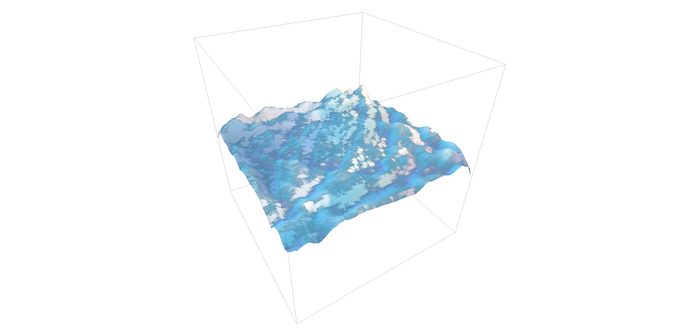
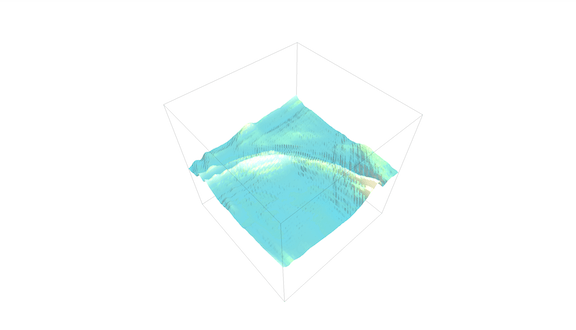
update

Changed region(s): [[0.3125, 0.2744, 0.6875, 0.8232]]

diff --git a/src/pages/pool/planeShader.js b/src/pages/pool/planeShader.js
@@ -106,44 +106,43 @@ const FS = {
   }
   
       void main() {
-        vec4 color =vec4(.32,.53,.68,1.);
+        vec4 color =vec4(.3,.76,.68,1.);
          vec3 normal = normalize(cross(dFdx(v_pos), dFdy(v_pos))*.5);
  normal.z = -normal.z;
  vec3 posBios = cameraPosition-v_pos;
- float fresnel = clamp(.9-clamp(dot(normalize(posBios),normal),0.,1.),0.,1.);
+ float fresnel = clamp(.85-clamp(dot(normalize(posBios),normal),0.,1.),0.,1.);
  fresnel*=fresnel*fresnel;
  vec4 sky = texture2D(skyMap, vUv);
-        if(v_pos.y>-0.5){
+        if(v_pos.y>-0.1){
           float a = smoothstep(-.1,2.,v_pos.y);
-          color.x+=a*.2;
-          color.y+=a*.2;
+          color.x+=a*.3;
+          color.y+=a*.24;
           color.z+=a*.2;
-        }else if(v_pos.y<0.){
+        }else if(v_pos.y<0.3){
           float a = smoothstep(.15,-2.,v_pos.y);
           color.x-=a*.1;
-          color.y-=a*.1;
-          color.z+=a*.08;
+          color.y+=a*.02;
+          color.z+=a*.18;
         }
 
         if(normal.x<.4 && normal.z<.4 && v_pos.y>-.1){
-          color+= .5*smoothstep(.1,1.,v_pos.y)*vec4(.3,.3,-.18,0.);
+          color+= .5*smoothstep(-.1,1.,v_pos.y)*vec4(.2,.3,-.18,0.);
           //  color.z+=.05;
 
-          if(normal.x<.1 && normal.z<.1 && v_pos.y>.5){
-          color+=  .5*smoothstep(.2,2.,v_pos.y)*vec4(.2,.18,.16,0.);
+          if(normal.x<.1 && normal.z<.1 && v_pos.y>.4){
+          color+=  .8*smoothstep(.1,2.,v_pos.y)*vec4(.26,.18,.16,0.);
           
         }
         }
 
 
         if(v_pos.y<.5 && v_pos.y>-.5){
-          color.x+=.02;
+          color.x-=.02;
           // color.y+=.01;
           color.z+=.05;
         }
-// color.xyz-=vec3(.1,.09,.09);
 
-color.xyzw*=vec4(1.15,1.1,1.05,1.);
+color.xyzw*=vec4(1.3,1.08,1.15,1.);
 
 if(posBios.y<0.){
   // fresnel=.8*(1.-fresnel);
@@ -151,9 +150,12 @@ if(posBios.y<0.){
 color = color*(1.-fresnel)+ fresnel*vec4(fresnel*sky.rgb,1.);
 
 
- if(normal.x<.1 && normal.z<.1 && v_pos.y>.5){
+ if(normal.x<.2 && normal.z<.2 && v_pos.y>.5){
           color+=.08*fresnel;
         }
+color.xyz-=.2*smoothstep(-5.,5.,v_pos.y)*vec3(.0,.1,.12);
+color.x+=.1*color.z;
+// color.z-=.1*color.y;
 color.w-=.1*smoothstep(-5.,5.,v_pos.y);
 
         // normal.z=v_pos.z;

diff --git a/src/pages/pool/3d.js b/src/pages/pool/3d.js
@@ -17,13 +17,21 @@ var intersectList = [];
 var filterType = "SAND",
   planeGeometry = {};
 
-const PLANE_WIDTH = 100;
+const PLANE_WIDTH = 90;
 const BUFFER_WIDTH = PLANE_WIDTH + 1;
 const BUFFER_AREA = BUFFER_WIDTH * BUFFER_WIDTH - 1;
 const BUFFER_LAST_LINE_START = BUFFER_WIDTH * (BUFFER_WIDTH - 1);
 const BUFFER_LAST_LINE_END = BUFFER_AREA;
 
 const materialMap = {};
+var aniId = 0;
+
+export const stopAnimate = () => {
+  cancelAnimationFrame(aniId);
+  renderer.dispose();
+  scene = null;
+  camera = null;
+};
 
 const switchMiu = () => {
   if (filterType === "SWIMMING_POOL") {
@@ -173,7 +181,7 @@ export const init = () => {
   buffer0 = buffer1;
 
   window.plane = plane;
-  updateGeometry({ power: 8 });
+  updateGeometry({ power: 12 });
 };
 
 export const updateGeometry = ({

diff --git a/src/pages/navigation/index.vue b/src/pages/navigation/index.vue
@@ -68,6 +68,12 @@ export default {
           desc: "",
           img: "",
         },
+        {
+          route: "brick",
+          name: "Sugar Bricks",
+          desc: "可爱捏",
+          img: "",
+        },
 
         {
           route: "lathe",
@@ -75,12 +81,7 @@ export default {
           desc: "made after playing HatsuneMiku:ColorfulStage!",
           img: "",
         },
-        {
-          route: "brick",
-          name: "Sugar Bricks",
-          desc: "可爱捏",
-          img: "",
-        },
+
         {
           route: "star",
           name: "屏幕指纹检测器",
